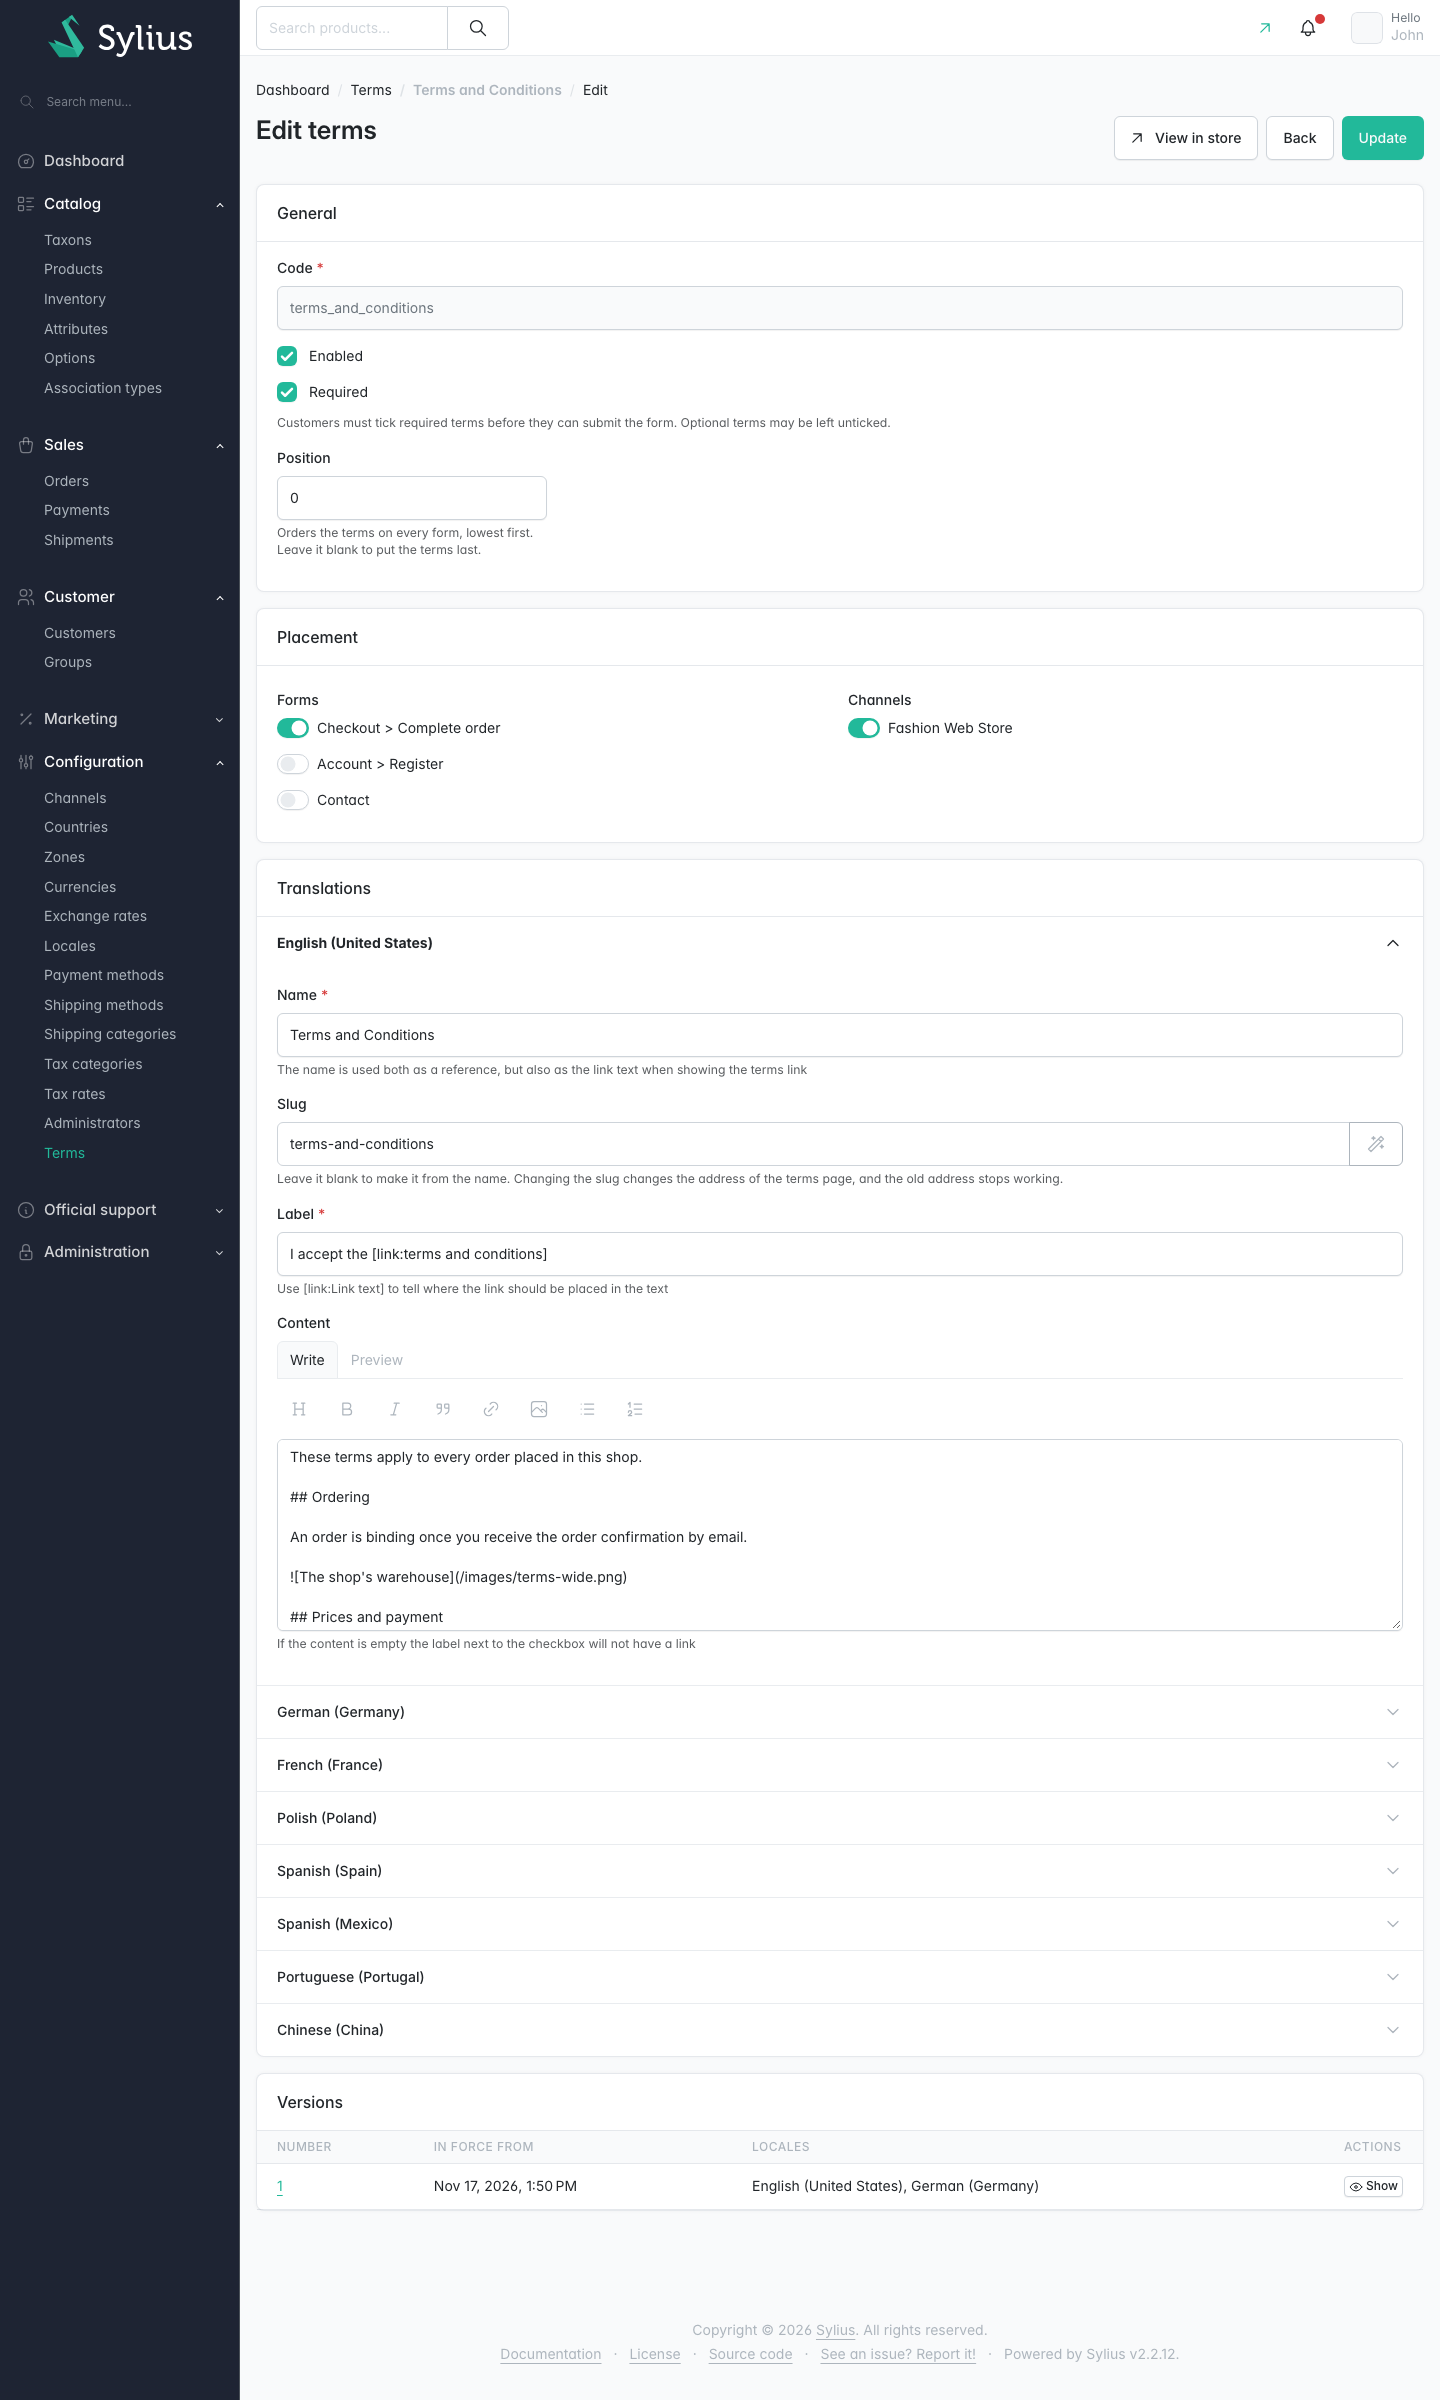
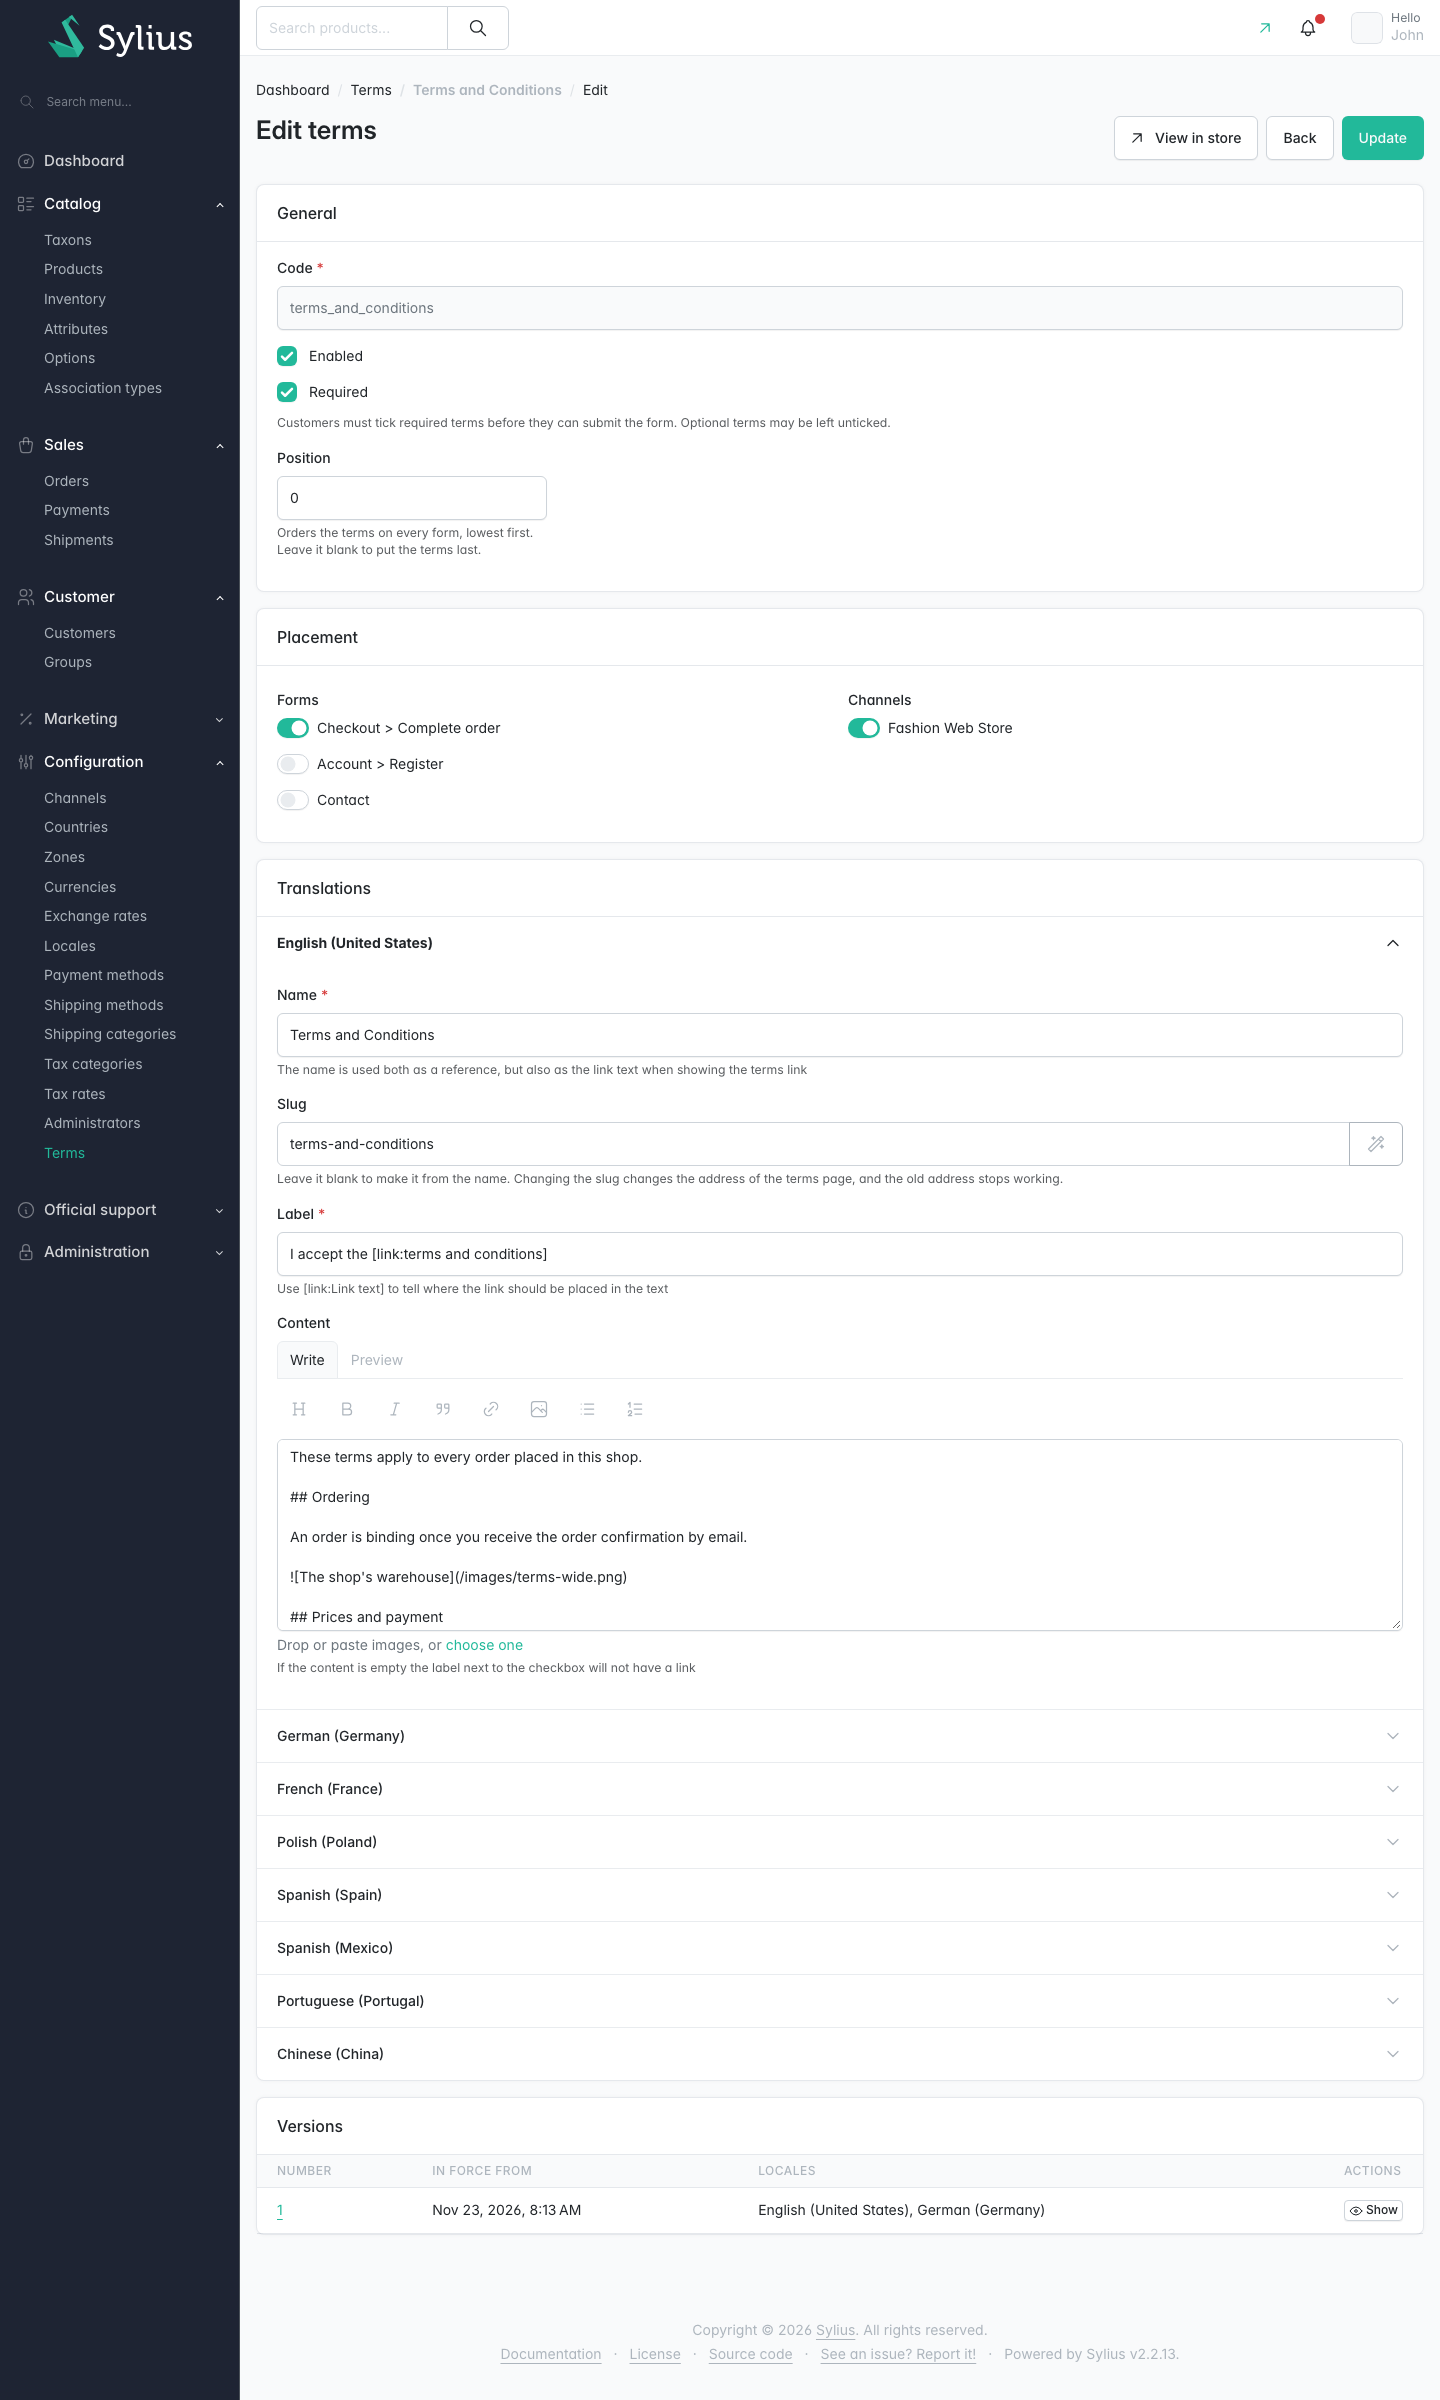
Document the requirements and deploys of Uploaded images, and show the upload hint in the update page screenshot

diff --git a/CLAUDE.md b/CLAUDE.md
@@ -101,6 +101,7 @@ symfony server:start                                            # https://127.0.
   - `functional` (`tests/Functional/`): boots `tests/Application` against MySQL with `WebTestCase` / `KernelTestCase`, and UX's `InteractsWithLiveComponents` for Live re-renders. Call `restore_exception_handler()` in `tearDown()`.
   - `browser` (`tests/Browser/`): tests extend `Playwright\Symfony\Test\PlaywrightTestCase` and drive Chromium. Pages are handled by the test's own kernel, with no web server, so they see the data the test creates. Read `docs/agents/browser-tests.md` before writing or debugging one.
 - `dama/doctrine-test-bundle` runs every test in a transaction that is rolled back afterwards. Find the baseline Terms (`terms_and_conditions`, `privacy_policy`, defined in `tests/Application/config/packages/sylius_fixtures.yaml`) by code, and create every other case inline with the plugin's factories. No Foundry.
+- The storage of Uploaded images, the test app's `public/media/terms`, isn't rolled back. A test that uploads an image deletes what it stored, with `tests/Functional/StoresImageFixturesTrait.php`.
 - Elements a test needs get a hook through `{{ sylius_test_html_attribute('name', value) }}`, never a raw `data-test-*` attribute.
 - Tests never touch the network. Time comes from Symfony Clock, and tests control it with `ClockSensitiveTrait` / `MockClock`.
 - playwright-symfony breaks BC in minors, so its constraint pins the minor (`^0.12`). Read its CHANGELOG before moving it.

diff --git a/README.md b/README.md
@@ -141,6 +141,9 @@ The content holds the URL the storage's `publicUrl()` gives: relative with this 
 channel's hostname. In a [Terms PDF](#terms-in-the-order-confirmation-email), a relative image shows only when the
 channel has a hostname (see [Setting the channel hostname](#setting-the-channel-hostname)).
 
+With this storage, the images live in your app's `public/media/terms`, and Terms versions point at them for good. Keep
+that directory across deploys, as you keep Sylius' `public/media/image`, for example as a shared directory.
+
 To store them elsewhere, for example on S3 behind a CDN, define a storage of the same name in your own config. It
 replaces the plugin's, and the content gets the URLs it gives:
 
@@ -574,8 +577,8 @@ $termsAnsweredDispatcher->dispatch(new TermsAnsweredEvent('checkout_complete', $
 
 The Content of a Terms is Markdown ([CommonMark](https://commonmark.org/) plus GitHub's tables and autolinks) that
 allows raw HTML, so Content written as HTML works too. Every rendering of Content is sanitised: scripts, event
-handlers, unsafe URLs and `class` and `style` attributes are removed. Admins write it with a Markdown toolbar and a
-preview (see [Writing Content](#writing-content)).
+handlers, unsafe URLs and `class` and `style` attributes are removed. Admins write it with a Markdown toolbar, image
+upload and a preview (see [Writing Content](#writing-content)).
 
 Print Content with the `terms_content` filter, never with `|raw`:
 

diff --git a/UPGRADE.md b/UPGRADE.md
@@ -15,6 +15,7 @@
 - `twig/intl-extra` (`^3.26`, the oldest release without a known security advisory) is a new requirement, for the `format_date` filter on the Terms page and in the Terms PDF. Apps that install `sylius/sylius` already have it. The plugin doesn't register `Twig\Extra\Intl\IntlExtension`: Sylius' own templates need it too, so a Sylius app already registers it, as Sylius-Standard does (see the README's Installation section).
 - The plugin no longer has to be registered before `SyliusGridBundle` in `config/bundles.php`.
 - `setono/doctrine-orm-trait` (`^1.2`) is a new requirement. The plugin also requires `symfony/console` and `doctrine/persistence` (`^3.3`) now, which apps that install `sylius/sylius` already have.
+- `league/flysystem` (`^3.35.3`, the oldest release without a known security advisory) and `league/flysystem-bundle` (`^3.7`, the first that takes the `local:` storage format) are new requirements, for the storage of Uploaded images. Apps that install `sylius/sylius` already have both, but Sylius 2.2 allows `league/flysystem-bundle` from `3.3`, so an app on `3.3`–`3.6` has to update it. The plugin also requires `symfony/security-csrf` and `symfony/translation-contracts` now, which apps that install `sylius/sylius` already have.
 
 ### Upgrade steps
 
